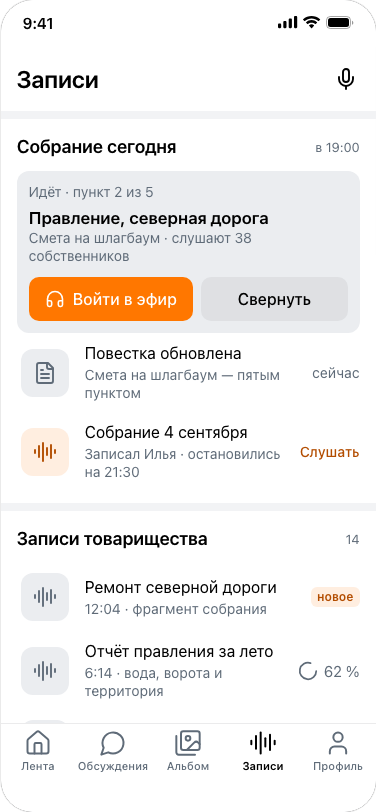
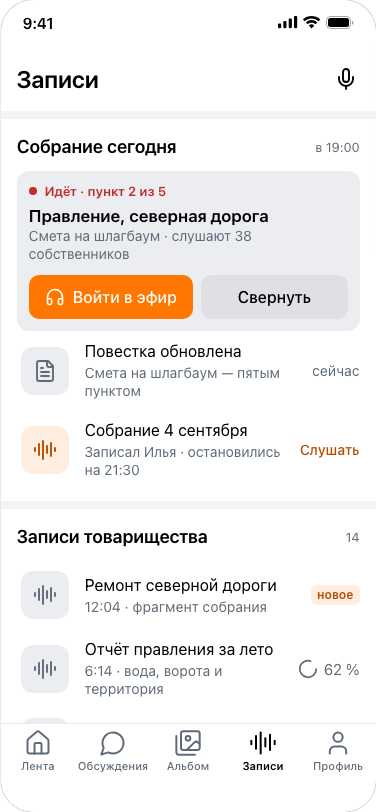
Sotki: live label color

diff --git a/platform/concepts/klass/styles.css b/platform/concepts/klass/styles.css
@@ -13,7 +13,7 @@
 
 /* Эфир собрания правления */
 .kl-live { margin:0 16px; padding:12px; border-radius:12px; background:var(--ui-card-2); }
-.kl-live-top { display:flex; align-items:center; gap:8px; font:600 13px/16px var(--ui-face); color:var(--ui-danger); }
+.kl-live > .kl-live-top { display:flex; align-items:center; gap:8px; font:600 13px/16px var(--ui-face); color:var(--ui-danger); }
 .kl-live-top i { width:8px; height:8px; border-radius:50%; background:var(--ui-danger); }
 .kl-live > strong { display:block; margin-top:6px; font:600 17px/22px var(--ui-face); }
 .kl-live > span { display:block; font:400 14px/18px var(--ui-face); color:var(--ui-text-2); }
